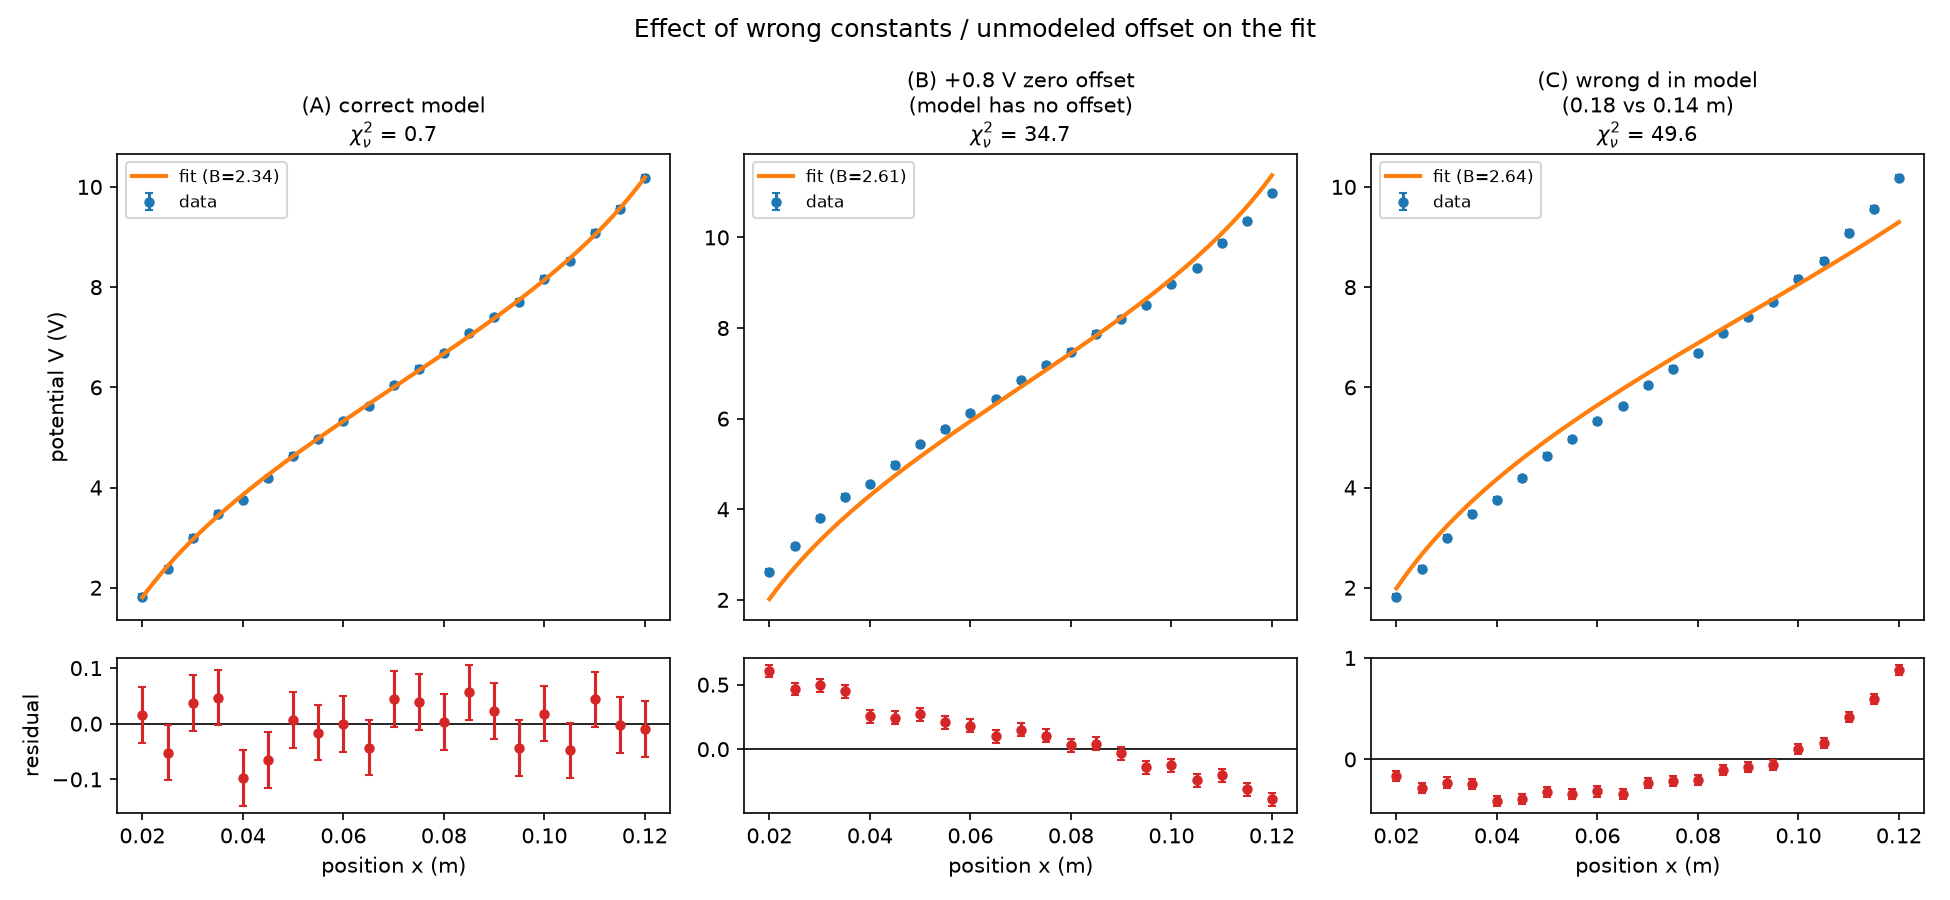
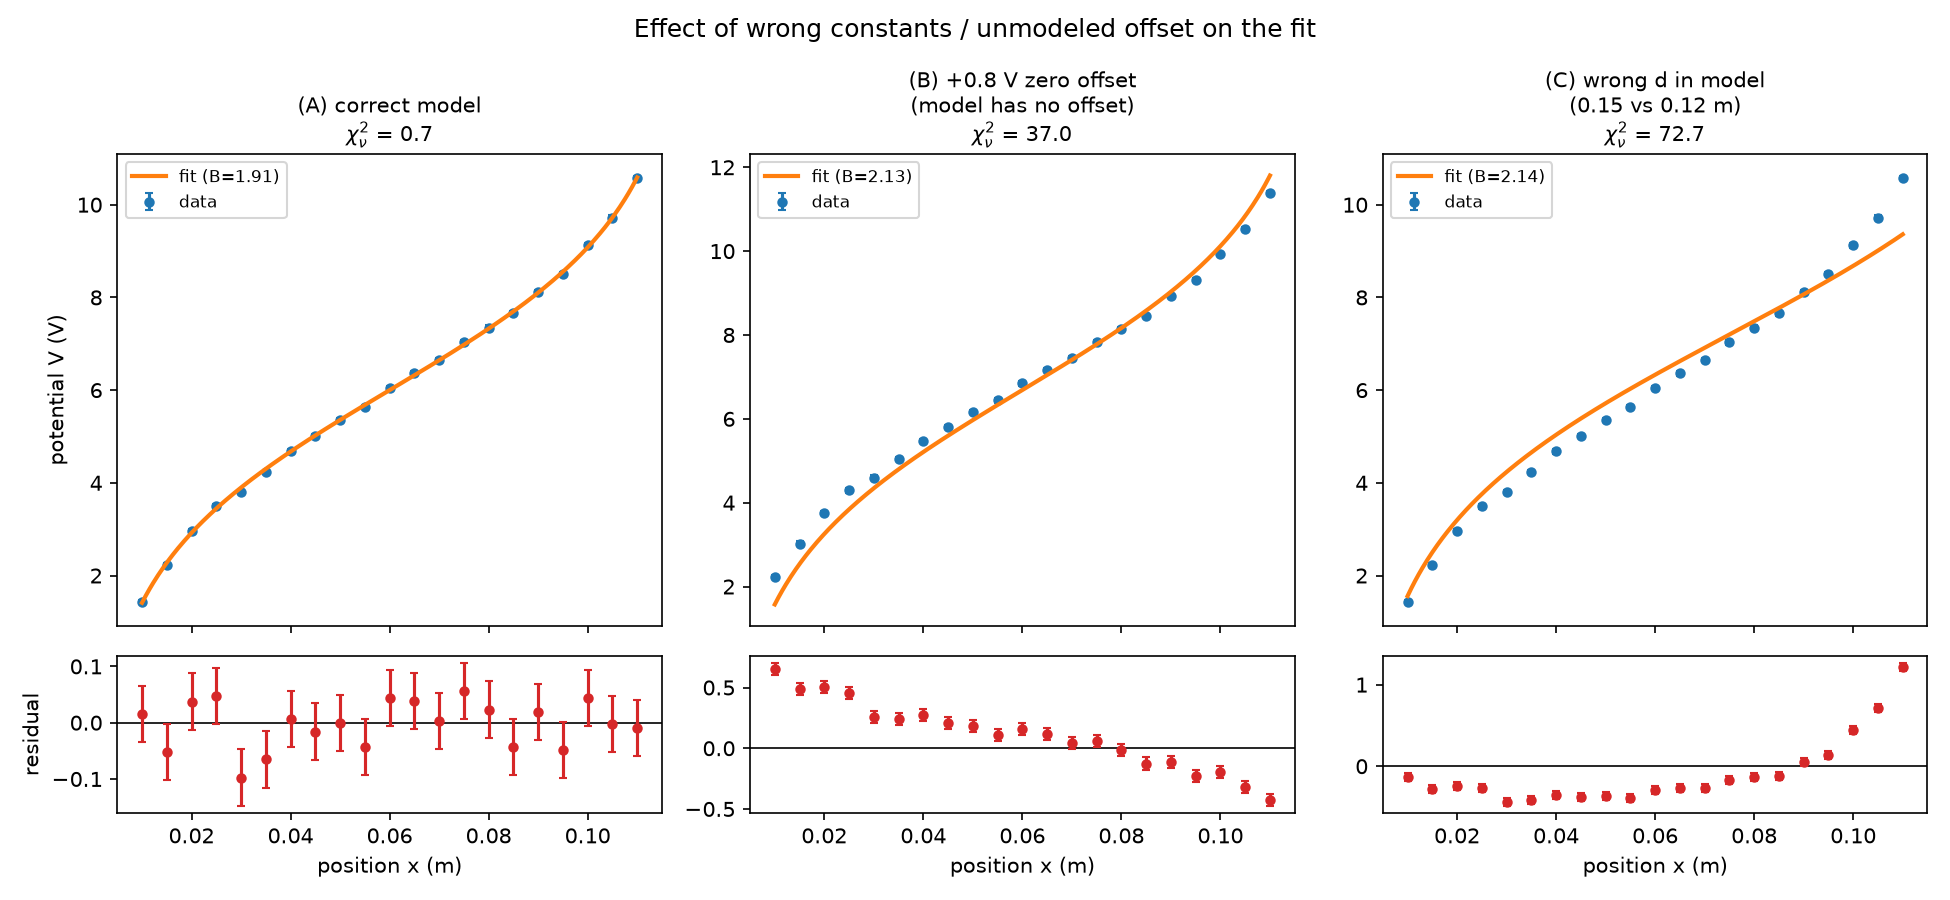
Add real experimental analyses; retire synthetic two-cylinder demo
Add measured-data analyses for three electrostatics experiments:
- parallel_plates: parallel_plate.csv (E=213 V/m vs 200 theory; 12V/60mm)
- concentric_rings: concentric_rings.csv (a=10mm, B=6.17 vs 6.70 theory)
- two_cylinders: parallel_cylinders.csv (B=1.939 vs 1.914 theory, V=1.914
  ln(x/(120-x))+6, recovered 12.16V PD)

Replace the synthetic two-cylinder demo with the real data and update the
misspecification demo to the a=5mm/d=120mm geometry.

diff --git a/examples/two_cylinders/misspecification_demo.py b/examples/two_cylinders/misspecification_demo.py
@@ -19,11 +19,11 @@ import numpy as np
 import matplotlib.pyplot as plt
 from scipy.optimize import curve_fit
 
-D, A, EPS0 = 0.140, 0.010, 8.8542e-12      # true geometry
+D, A, EPS0 = 0.120, 0.005, 8.8542e-12      # true geometry
 B0 = 6.0 / np.log((D - A) / A)             # true prefactor (12 V across surfaces)
 SIGMA = 0.05                               # multimeter resolution
 
-x = np.arange(0.020, 0.120 + 1e-9, 0.005)
+x = np.arange(0.010, 0.110 + 1e-9, 0.005)
 err = np.full_like(x, SIGMA)
 rng = np.random.default_rng(42)
 V_clean = B0 * (np.log(x / (D - x)) - np.log(A / (D - A)))
@@ -46,7 +46,7 @@ y_wrongd = y_correct                                   # same data, wrong-d mode
 scenarios = [
     ("(A) correct model", y_correct, lambda x, B: cyl(x, B)),
     ("(B) +0.8 V zero offset\n(model has no offset)", y_offset, lambda x, B: cyl(x, B)),
-    ("(C) wrong d in model\n(0.18 vs 0.14 m)", y_wrongd, lambda x, B: cyl(x, B, d=0.18)),
+    ("(C) wrong d in model\n(0.15 vs 0.12 m)", y_wrongd, lambda x, B: cyl(x, B, d=0.15)),
 ]
 
 fig, axes = plt.subplots(2, 3, figsize=(13, 6), sharex=True,

diff --git a/examples/two_cylinders/README.md b/examples/two_cylinders/README.md
@@ -1,71 +1,61 @@
 # Example: potential between two parallel charged cylinders
 
-Measuring the electric potential `V(x)` along the axis joining two long parallel
-conducting cylinders (a cylindrical capacitor), and comparing the measurements
-against the line-charge theory.
+Real measured potential `V(x)` along the axis joining two long parallel
+conducting cylinders, compared against the line-charge theory.
 
 ## Physical setup
 
-- Two long conducting cylinders, radius **a = 10 mm**, axes **d = 140 mm** apart.
-- Length **l ≫ d**, so end effects are negligible and each behaves as a uniform
-  **line charge**: −q on the left cylinder, +q on the right (linear density λ = q/l).
-- Connected across a **12 V source**.
-- A probe measures the on-axis potential `V(x)`, with `x` = distance from the
-  left cylinder's axis, stepped in **5 mm** increments.
+- Two long conducting cylinders, radius **a = 5 mm**, axes **d = 120 mm** apart,
+  length **l ≫ d** (so they behave as line charges −q and +q), across a **12 V source**.
+- A probe measures the on-axis potential. The probe position is read from the
+  **near cylinder's surface**, so the axis distance is `x = x_probe + a` (the
+  recorded `x = 0` is the surface, at axis distance 5 mm).
 
-Superposing the two line charges gives a **logarithmic** on-axis potential:
+The superposed line-charge potential is
 
-    V(x) = B · [ ln(x/(d − x)) − ln(a/(d − a)) ],    B = q / (2·π·ε₀·l)
+    V(x) = B·[ ln(x/(d − x)) − ln(a/(d − a)) ]  =  B·ln(x/(d − x)) + C
 
-The `−ln(a/(d−a))` term sets `V = 0` at the left cylinder's surface (`x = a`).
-The single fittable parameter is the prefactor `B`; `d` and `a` are known
-geometry. The 12 V across the capacitor fixes the theoretical value:
+with the prefactor and constant fixed by the 12 V across the surfaces:
 
-    12 V = V(d−a) − V(a) = 2·B·ln((d−a)/a)   →   B = 6 / ln((d−a)/a) ≈ 2.339 V
+    B = 6 / ln((d − a)/a) = 6/ln(23) = 1.914 V
+    C = B·ln((d − a)/a)   = 6.00 V   (midpoint potential)
 
-This is registered as the `two_cylinder_potential` model in `../../models.py`,
-which fits `B` and reports the derived charge-per-length `λ = 2·π·ε₀·B` and the
-recovered capacitor PD (a cross-check that it returns ~12 V).
-
-> **Note on geometry:** this is a *line-charge* model (potential ∝ ln r), correct
-> for long cylinders/rods. It is **not** the point-charge model (potential ∝ 1/r)
-> used for spheres — that model (`two_sphere_potential`) also exists in the
-> registry, but does not apply to this apparatus.
+i.e. **`V = 1.914·ln(x/(120 − x)) + 6`** (x in mm). `V = 0` at the near surface
+(x = 5 mm), 6 V at the midpoint (x = 60 mm), 12 V at the far surface (x = 115 mm).
+Registered as `two_cylinder_potential` in `../../models.py`.
 
 ## Files
 
-- `generate_data.py` — produces `potential_vs_position.csv` (synthetic probe
-  readings = theory + Gaussian noise at the 0.05 V multimeter resolution; fixed
-  random seed, so it is reproducible). Units are SI: x in metres, V in volts.
-- `potential_vs_position.csv` — the generated sample data (`x, y, y_err`).
-- `two_cylinders_fit.png` — the fit + theory overlay plot.
+- `parallel_cylinders.csv` — measured data (`x` = axis distance in m, `y` = mean
+  of 3 trials, `y_err` = 0.05 V multimeter resolution).
+- `parallel_cylinders_fit.png` — data + fit + theory overlay.
+- `misspecification_demo.py` / `.png` — shows how a wrong fixed constant or an
+  unmodeled offset inflates χ² and bends the residuals (teaching aid).
 
 ## Reproduce
 
-From the repository root (with the venv set up — see the top-level README):
+From the repository root (venv set up — see the top-level README):
 
 ```bash
-# 1. regenerate the sample data (optional; the CSV is already committed)
-cd examples/two_cylinders && python generate_data.py && cd ../..
-
-# 2. fit the data and overlay the theoretical curve (B = 2.339 V)
-python fit_lab_data.py examples/two_cylinders/potential_vs_position.csv \
+python fit_lab_data.py examples/two_cylinders/parallel_cylinders.csv \
     --model two_cylinder_potential \
-    --theory 2.33924 --theory-label "theory (B=2.34)" \
-    --xlabel "position x (m)" --ylabel "potential V (V)" \
-    -o examples/two_cylinders/two_cylinders_fit.png
+    --theory 1.9136 --theory-label "theory (B=1.914, V=B*ln(x/(120-x))+6)" \
+    --xlabel "axis distance x (m)" --ylabel "potential V (V)" \
+    --no-residuals --no-chi2 --title "Parallel Cylinders (a=5mm, d=120mm)" \
+    --xmax 0.115 -o examples/two_cylinders/parallel_cylinders_fit.png
 ```
 
 ## Result
 
-The fit recovers:
-
-| Quantity | Fitted | Expected |
+| Quantity | Fit | Theory |
 |---|---|---|
-| Prefactor `B` | 2.3393 ± 0.0040 V | 2.339 V |
-| Charge/length `λ` | (1.3014 ± 0.0022) × 10⁻¹⁰ C/m | — |
-| Capacitor PD `2·B·ln((d−a)/a)` | 12.000 ± 0.020 V | 12 V (source) |
+| Prefactor `B` | 1.939 ± 0.004 V | 1.914 V (= 6/ln23) |
+| Capacitor PD `2·B·ln((d−a)/a)` | 12.16 ± 0.02 V | 12 V (source) |
+| Charge/length `λ` | (1.079 ± 0.002) × 10⁻¹⁰ C/m | — |
 
-Reduced chi-square ≈ 0.72 — a good fit. The recovered capacitor PD lands right
-on the 12 V source. In the plot the fit and theory curves overlap, and the
-residuals (`data − fit` and `data − theory`) scatter evenly about zero.
+The data reproduces `V = 1.914·ln(x/(120−x)) + 6` to ~1.3% on both `B` and the
+recovered 12 V supply — the closest agreement of the example set. The plot shows
+the characteristic S-curve (steep near each cylinder, flat through 6 V at the
+midpoint), with fit and theory essentially coincident. χ²ᵥ ≈ 18 is somewhat
+above 1, indicating the 0.05 V resolution slightly underestimates the true
+point-to-point scatter (~0.2 V), but the shape, `B`, and PD all match theory.

diff --git a/examples/concentric_rings/README.md b/examples/concentric_rings/README.md
@@ -1,0 +1,55 @@
+# Example: potential between concentric ring electrodes
+
+Real measured potential `V(r)` between two concentric ring electrodes (a 2D
+coaxial geometry), compared against the logarithmic theory.
+
+## Physical setup
+
+- Inner ring radius **a = 10 mm**, outer ring radius **b = 60 mm**, across a **12 V source**.
+- A probe measures the potential at radius `r`. The recorded `x` column is the
+  radius in metres.
+
+In the annulus, Laplace's equation gives a logarithmic potential:
+
+    V(r) = B·ln(r/a),   V = 0 at the inner ring, V = source at the outer ring
+    B = V_source / ln(b/a) = 12 / ln(60/10) = 12/ln6 = 6.70 V
+
+Registered as `concentric_rings` in `../../models.py` (and `concentric_rings_freea`,
+which fits the effective inner radius instead of fixing it).
+
+## Files
+
+- `concentric_rings.csv` — measured data (`x` = radius in m, `y` = mean of 3
+  trials, `y_err` = 0.05 V). The inner-ring `(r, 0)` point is excluded — it is a
+  reading on the conductor, not in the field region.
+- `concentric_rings_fit.png` — data + fit + theory overlay.
+
+## Reproduce
+
+From the repository root (venv set up — see the top-level README):
+
+```bash
+python fit_lab_data.py examples/concentric_rings/concentric_rings.csv \
+    --model concentric_rings \
+    --theory 6.697 --theory-label "theory (B=6.70=12/ln6)" \
+    --xlabel "radius r (m)" --ylabel "potential V (V)" \
+    --no-residuals --no-chi2 --title "Concentric Rings (a = 10 mm)" \
+    --xmin 0.010 -o examples/concentric_rings/concentric_rings_fit.png
+```
+
+## Result
+
+| Quantity | Fit (a = 10 mm) | Theory |
+|---|---|---|
+| Prefactor `B` | 6.17 ± 0.01 V | 6.70 V (= 12/ln6) |
+| Implied source `B·ln(b/a)` | 11.06 V | 12 V |
+| χ²ᵥ | 4.6 | — |
+
+**Note on the inner radius.** The data was originally analysed with the recorded
+inner radius of 15 mm, which gave a very poor fit (χ²ᵥ ≈ 400) — the data was
+visibly steeper near the inner ring than `ln(r/15)` allows. Letting the inner
+radius float (`concentric_rings_freea`) preferred ~9.6 mm, so the geometry was
+re-examined and corrected to **a = 10 mm**, which fits well (χ²ᵥ = 4.6). The
+remaining ~8% amplitude shortfall (`B = 6.17` vs `6.70`, implied 11.1 V vs 12 V)
+is consistent with the probe not reaching the full source voltage at the outer
+ring (contact resistance / supply slightly under 12 V at the electrodes).